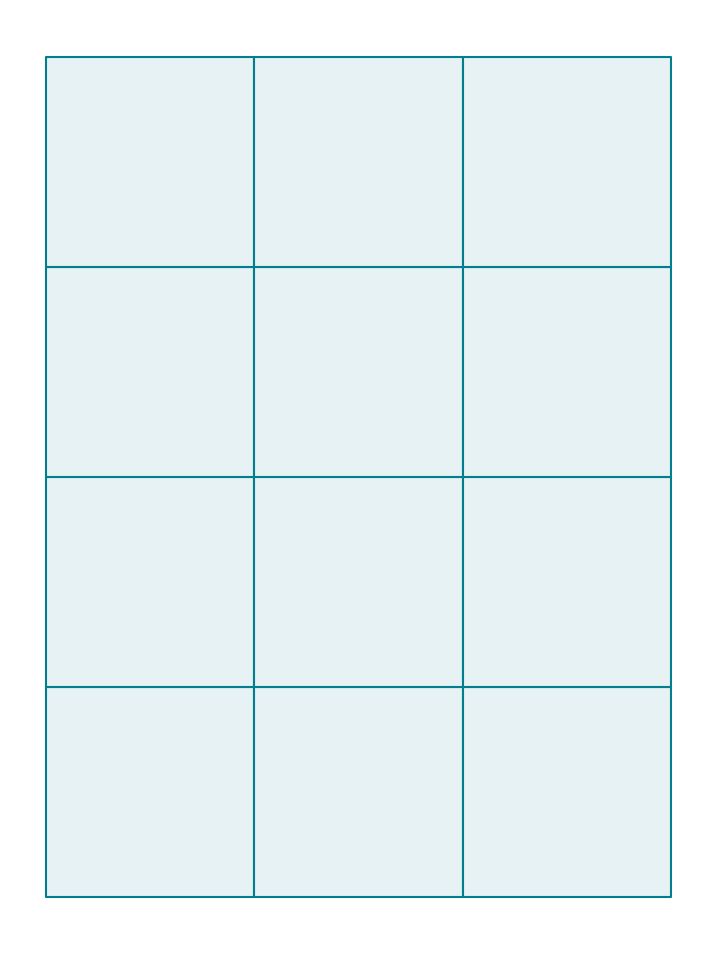
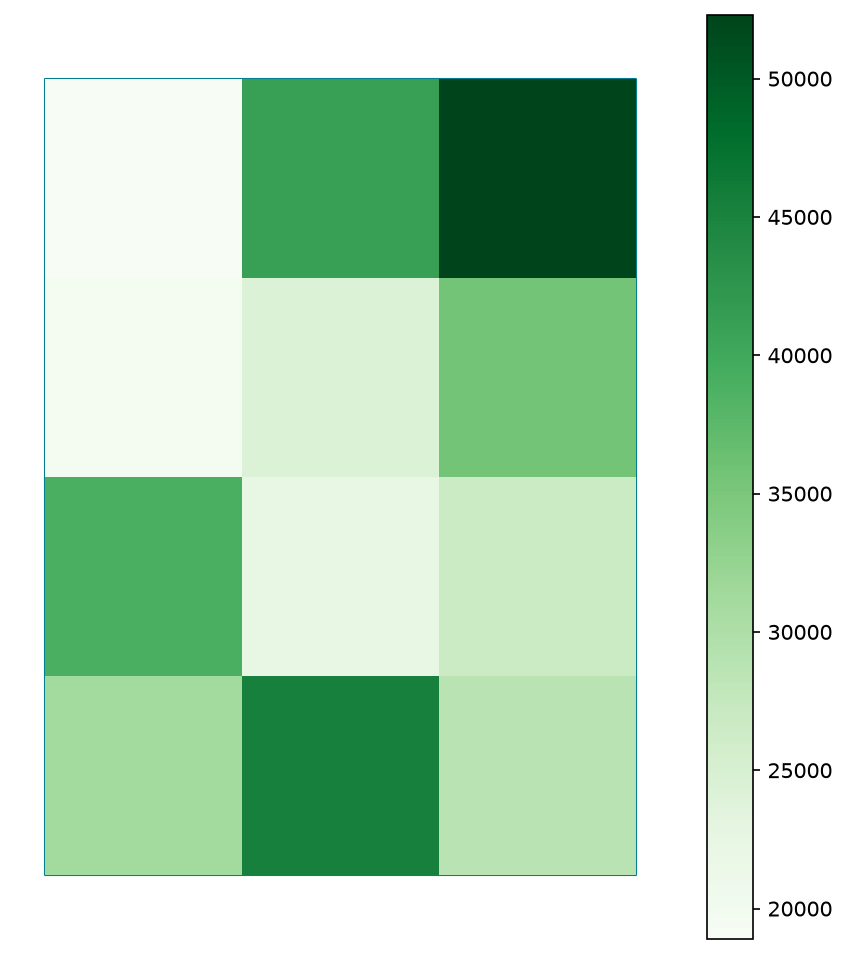
Final Population Map

diff --git a/dev/month-03/week-10/join_population.py b/dev/month-03/week-10/join_population.py
@@ -24,7 +24,7 @@ print(joined[["ward_name", "population_2024"]])
 
 fig, ax = plt.subplots(figsize=(7,8))
 wards.plot(ax=ax, color="#E6F2F3", edgecolor="#037E8E")
-joined.plot(column="population_2024", legend=True, cmap="Greens")
+joined.plot(ax=ax, column="population_2024", legend=True, cmap="Greens")
 # ax.set_title("My Study Area")
 ax.set_axis_off()
 
